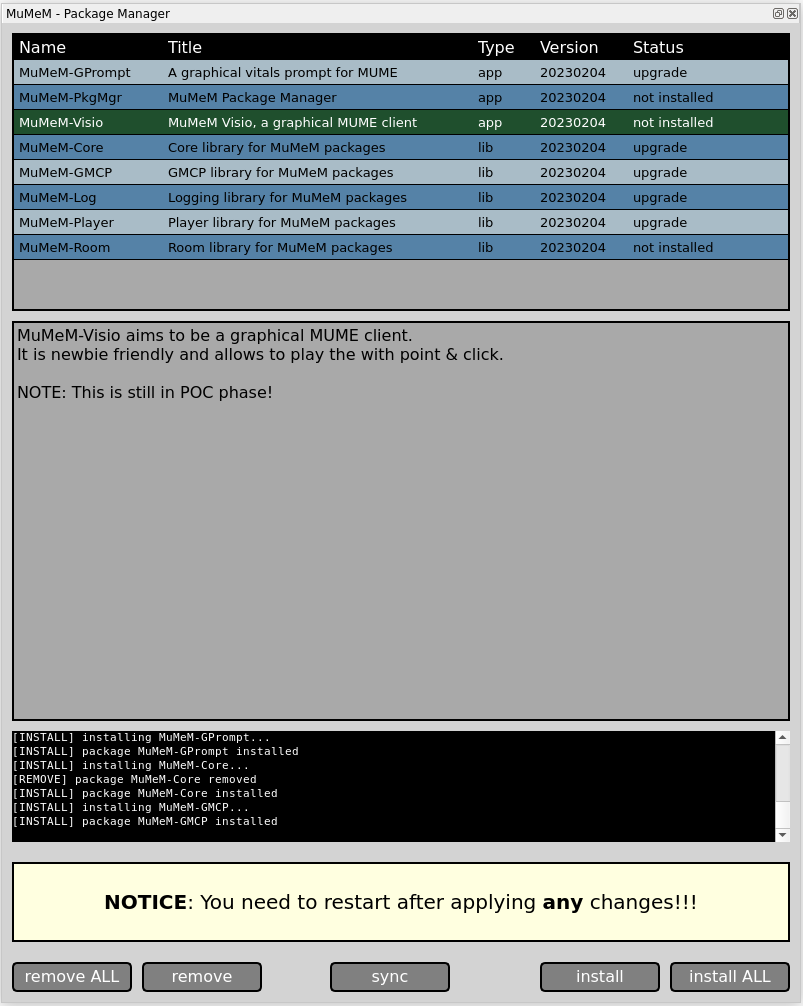
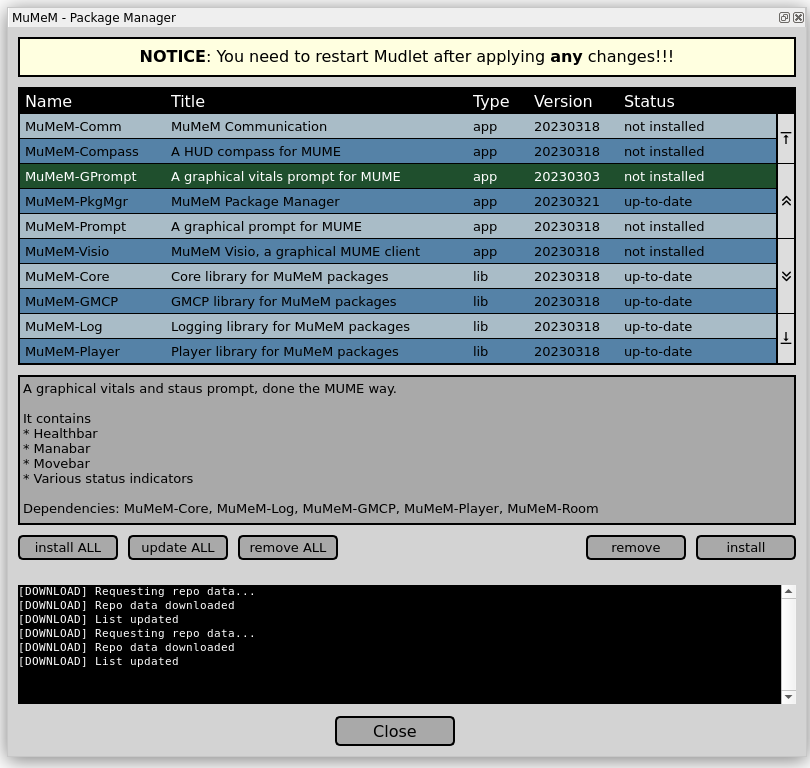
updateALL also updates pkgmgr itself

diff --git a/Mudlet/MuMeM-PkgMgr/CHANGELOG.md b/Mudlet/MuMeM-PkgMgr/CHANGELOG.md
@@ -3,6 +3,7 @@
   * New layout
   * Added "update ALL" button (which updates all installed packages)
   * "intall" button responsive to selection (install/update/upgrade/downgrade/re-install)
+  * Package dependencies shown in info-window
 
 ### 20230318
 
